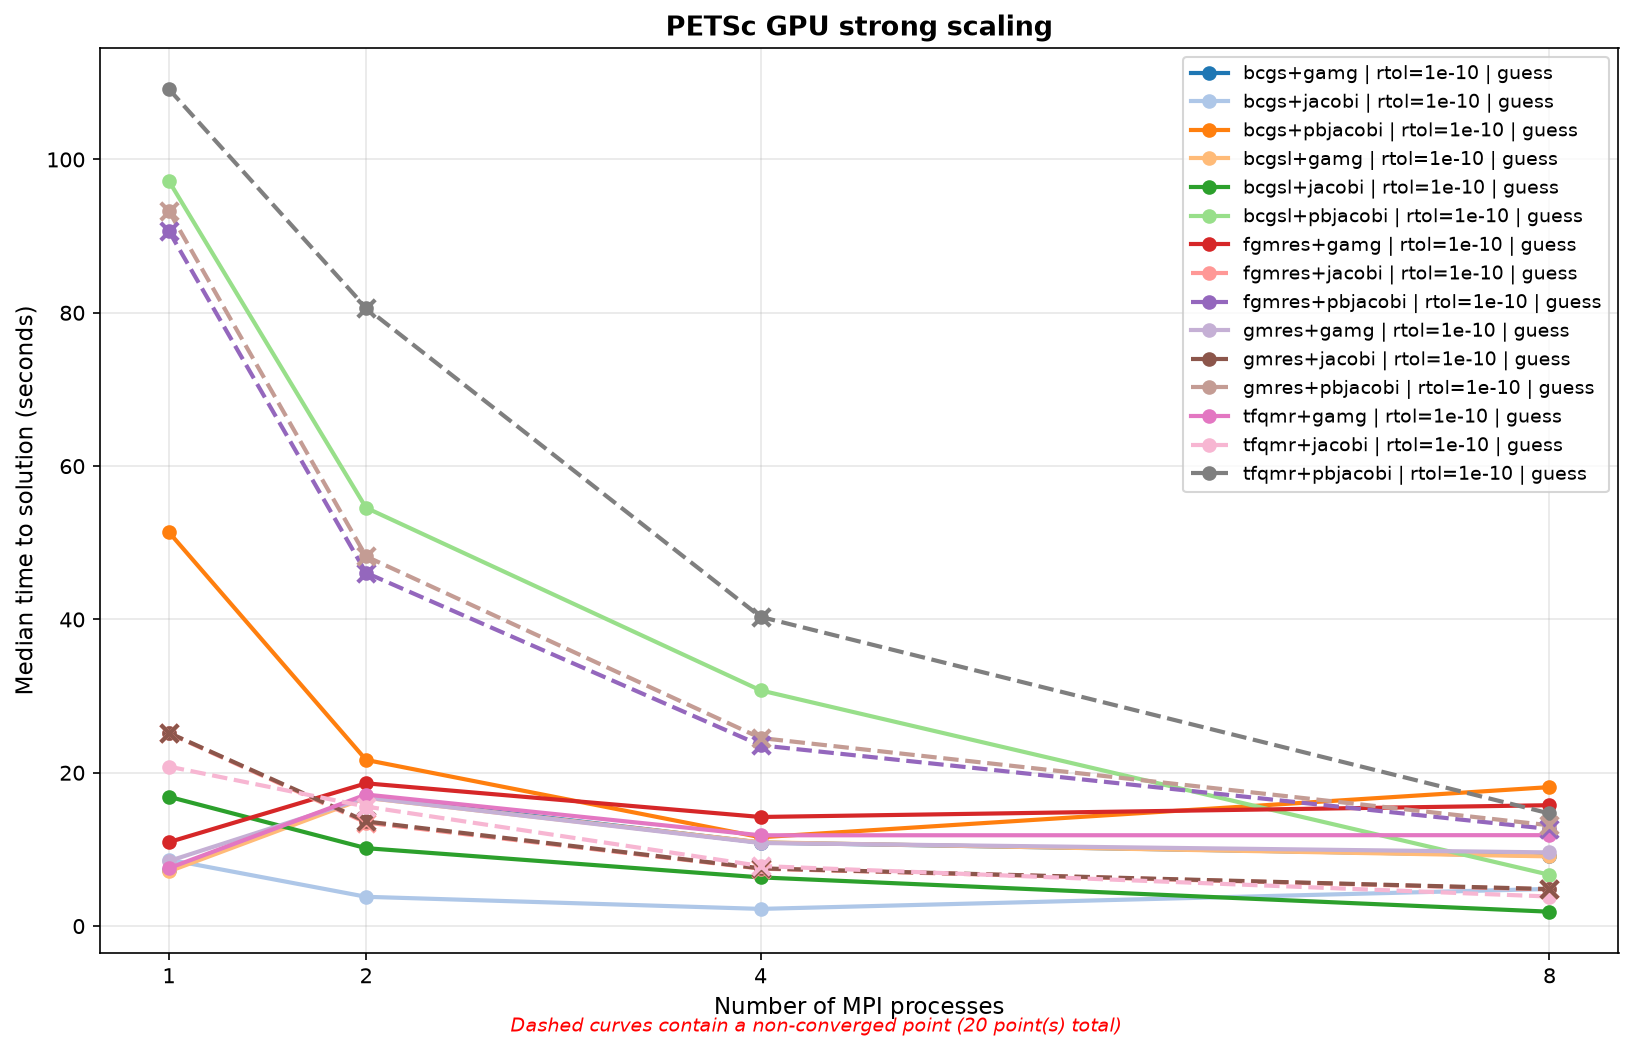
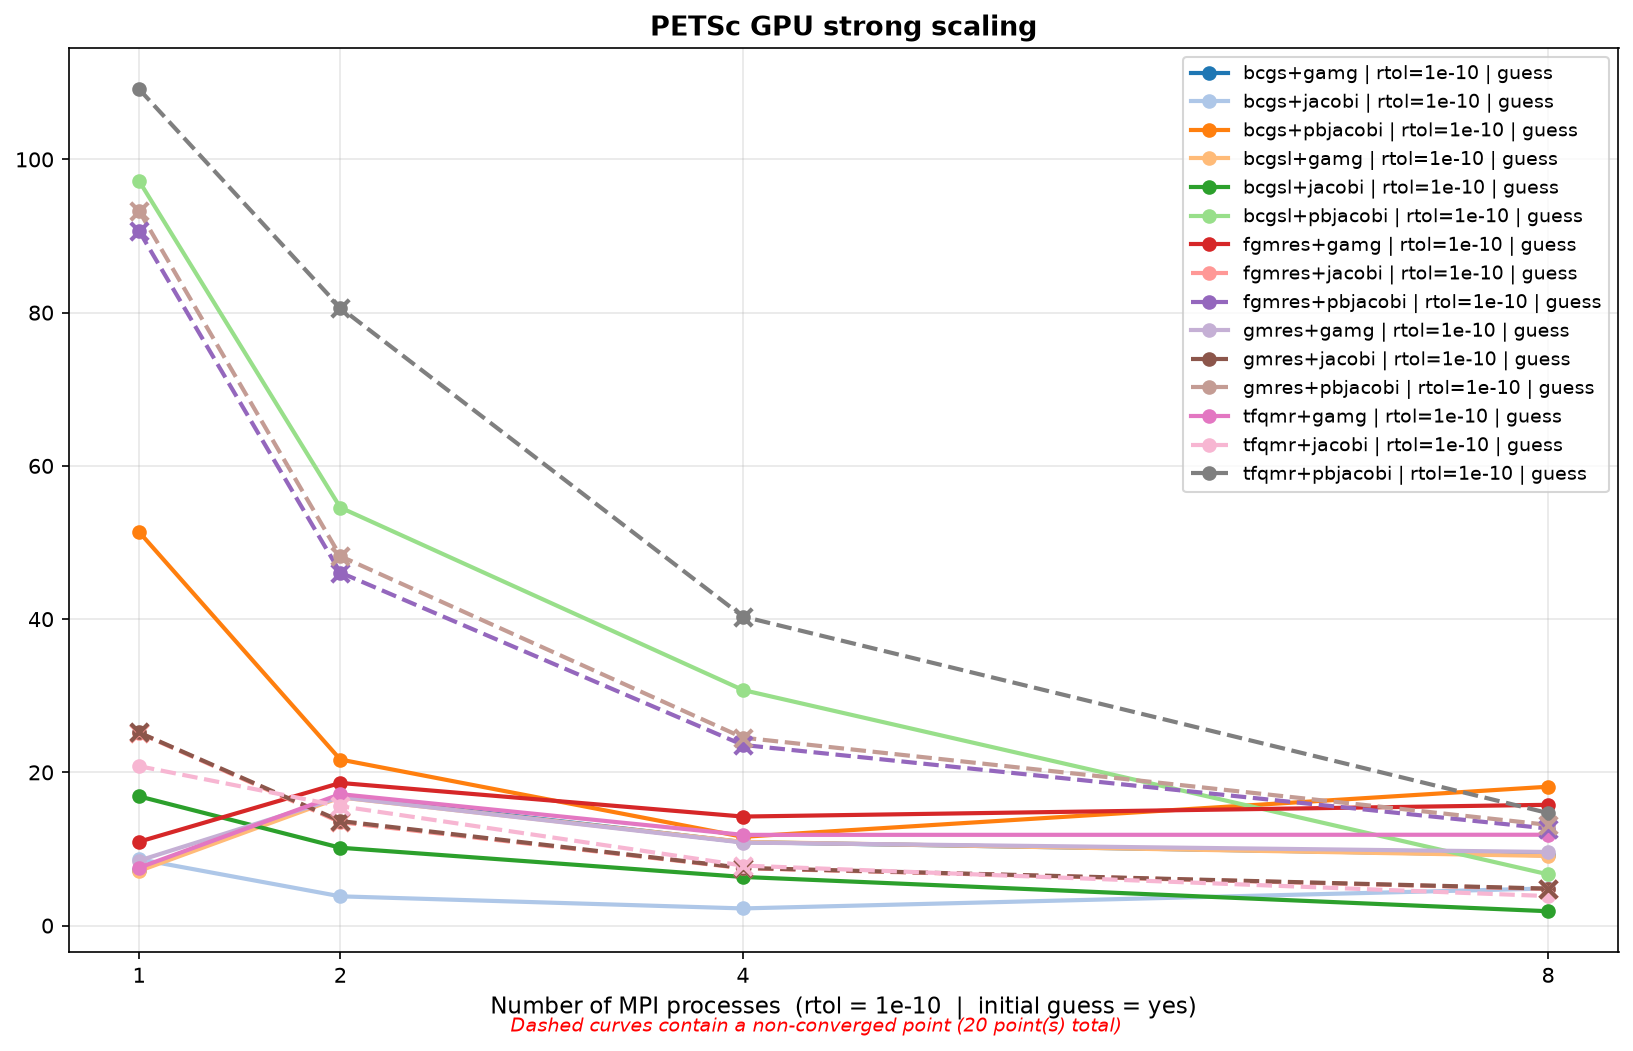
Add rtol and initial guess info to all figures

diff --git a/benchmark_petsc.py b/benchmark_petsc.py
@@ -500,6 +500,17 @@ def plot_scaling_results(result_files, output_file='results/benchmark_results.pn
     if not series:
         raise RuntimeError("No converged solutions are available to plot")
 
+    # Extract common solver parameters from first result
+    sample = datasets[0]["results"][0]
+    rtol = sample.get("ksp_rtol", None)
+    use_guess = sample.get("use_initial_guess", None)
+    param_parts = []
+    if rtol is not None:
+        param_parts.append(f"rtol = {rtol:.0e}")
+    if use_guess is not None:
+        param_parts.append(f"initial guess = {'yes' if use_guess else 'no'}")
+    param_str = "  |  ".join(param_parts)
+
     fig, ax = plt.subplots(figsize=(11, 7))
     colors = plt.get_cmap('tab20').colors
     for index, (label, points) in enumerate(sorted(series.items())):
@@ -527,9 +538,11 @@ def plot_scaling_results(result_files, output_file='results/benchmark_results.pn
                 zorder=5,
             )
 
-    ax.set_xlabel('Number of MPI processes', fontsize=11)
-    ax.set_ylabel('Median time to solution (seconds)', fontsize=11)
     ax.set_title('PETSc GPU strong scaling', fontsize=13, fontweight='bold')
+    if param_str:
+        ax.set_xlabel(f'Number of MPI processes  ({param_str})', fontsize=11)
+    else:
+        ax.set_xlabel('Number of MPI processes', fontsize=11)
     ax.set_xticks(mpi_counts)
     ax.grid(True, alpha=0.3)
     ax.legend(fontsize=9)
@@ -575,6 +588,17 @@ def plot_scaling_rankings(datasets, output_dir):
     cmap = plt.get_cmap('tab20')
     color_map = {label: cmap(i % 20) for i, label in enumerate(all_labels)}
 
+    # Extract common solver parameters
+    sample = datasets[0]["results"][0]
+    rtol = sample.get("ksp_rtol", None)
+    use_guess = sample.get("use_initial_guess", None)
+    param_parts = []
+    if rtol is not None:
+        param_parts.append(f"rtol = {rtol:.0e}")
+    if use_guess is not None:
+        param_parts.append(f"initial guess = {'yes' if use_guess else 'no'}")
+    param_str = "  |  ".join(param_parts)
+
     # --- Ranking by TTS ---
     fig, axes = plt.subplots(1, n_mpi, figsize=(7 * n_mpi, max(6, len(all_labels) * 0.45)),
                              sharey=False)
@@ -604,7 +628,7 @@ def plot_scaling_rankings(datasets, output_dir):
             marker = "" if c else " x"
             ax.text(t, i, f" {t:.2f}s{marker}", va="center", fontsize=7)
 
-    fig.suptitle("Ranking by Time to Solution", fontsize=14, fontweight="bold", y=1.01)
+    fig.suptitle(f"Ranking by Time to Solution  ({param_str})", fontsize=14, fontweight="bold", y=1.01)
     fig.tight_layout()
     tts_path = output_dir / "ranking_tts.png"
     fig.savefig(tts_path, dpi=150, bbox_inches="tight")
@@ -641,7 +665,7 @@ def plot_scaling_rankings(datasets, output_dir):
             marker = "" if c else " x"
             ax.text(it, i, f" {it}{marker}", va="center", fontsize=7)
 
-    fig.suptitle("Ranking by Iterations", fontsize=14, fontweight="bold", y=1.01)
+    fig.suptitle(f"Ranking by Iterations  ({param_str})", fontsize=14, fontweight="bold", y=1.01)
     fig.tight_layout()
     iter_path = output_dir / "ranking_iterations.png"
     fig.savefig(iter_path, dpi=150, bbox_inches="tight")
